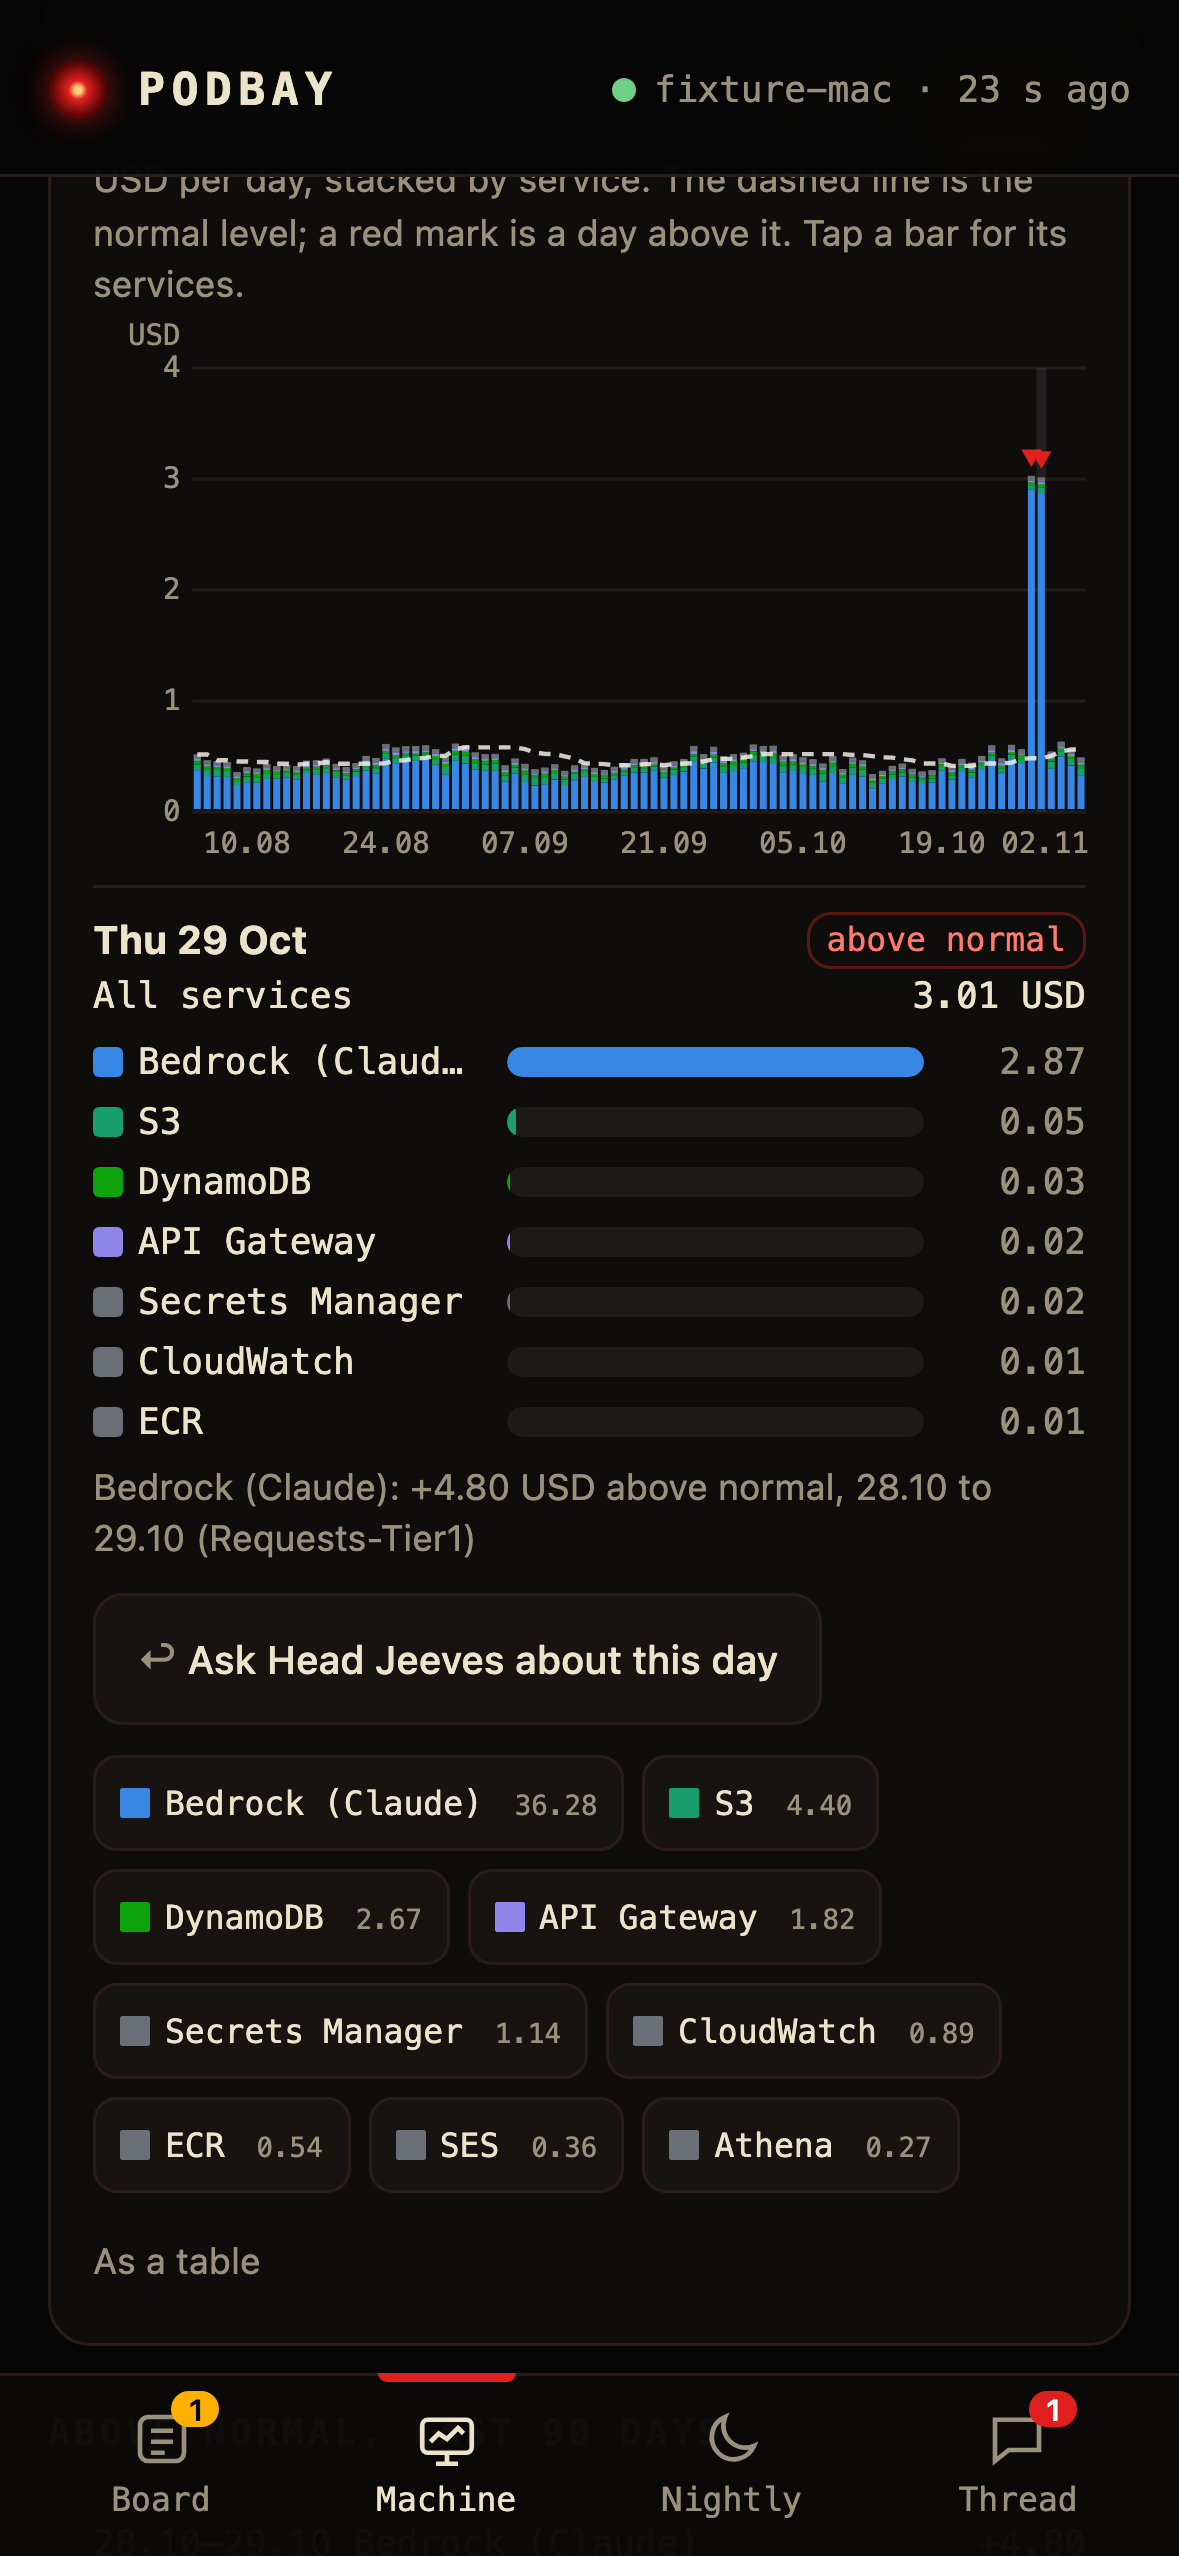
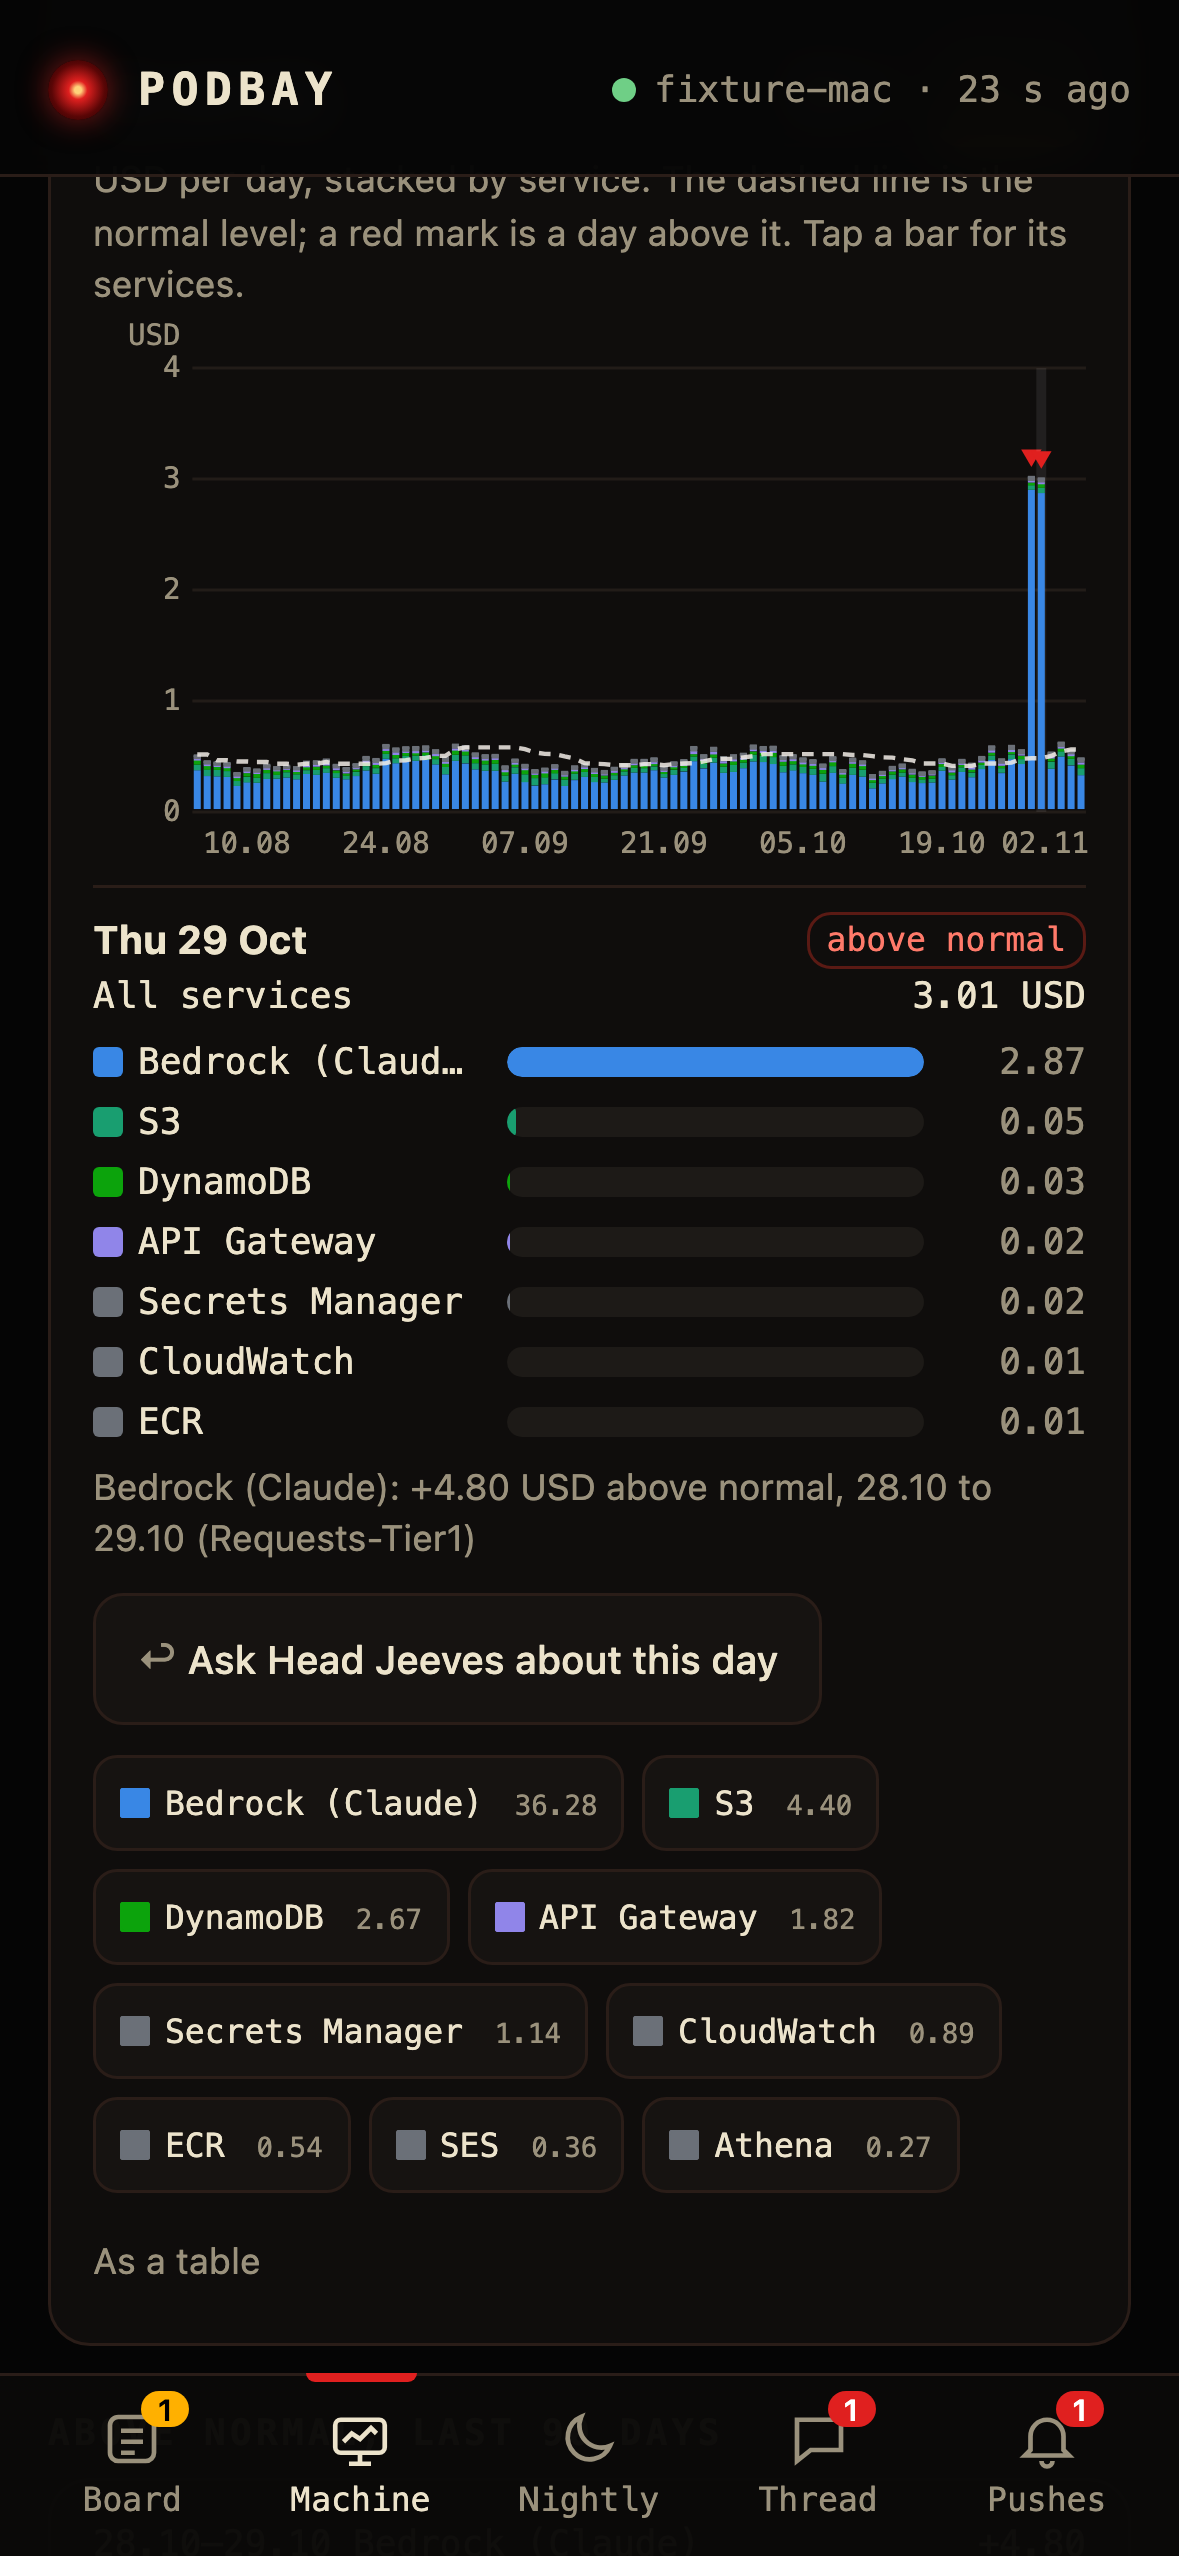
mobile app: costs day bars use their service colour
The inline style was blocked by the style-src 'self' policy, so every bar
fell back to green. The colour is now set from script, like the width.

diff --git a/mobile/app/app.js b/mobile/app/app.js
@@ -63,6 +63,7 @@
   function applyWidths(root) {
     (root || document).querySelectorAll("[data-w]").forEach(function (el) {
       el.style.width = Math.max(0, Math.min(100, Number(el.getAttribute("data-w")) || 0)) + "%";
+      if (el.hasAttribute("data-bg")) el.style.background = el.getAttribute("data-bg");
     });
   }
 
@@ -751,7 +752,7 @@
         '<div class="prow total"><span>All services</span><span>' + usd(tot) + "</span></div>" +
         rows.map(function (r) {
           return '<div class="qrow' + (p.hidden[r[0]] ? " off" : "") + '"><span class="k"><svg class="sw" viewBox="0 0 10 10"><rect width="10" height="10" rx="2" fill="' + col[r[0]] + '"/></svg>' + esc(r[0]) +
-            '</span><div class="bar"><b style="background:' + col[r[0]] + '" data-w="' + Math.round((r[1] / max) * 100) + '"></b></div><span class="r">' + r[1].toFixed(2) + "</span></div>";
+            '</span><div class="bar"><b data-bg="' + col[r[0]] + '" data-w="' + Math.round((r[1] / max) * 100) + '"></b></div><span class="r">' + r[1].toFixed(2) + "</span></div>";
         }).join("") + (rows.length ? "" : '<p class="none">No running cost this day.</p>') +
         (anomalyDay[d] || []).map(function (x) {
           return '<p class="q">' + esc(x.service + ": " + (x.kind === "new service" ? "new service" : "+" + (x.excess || 0).toFixed(2) + " USD above normal") +
